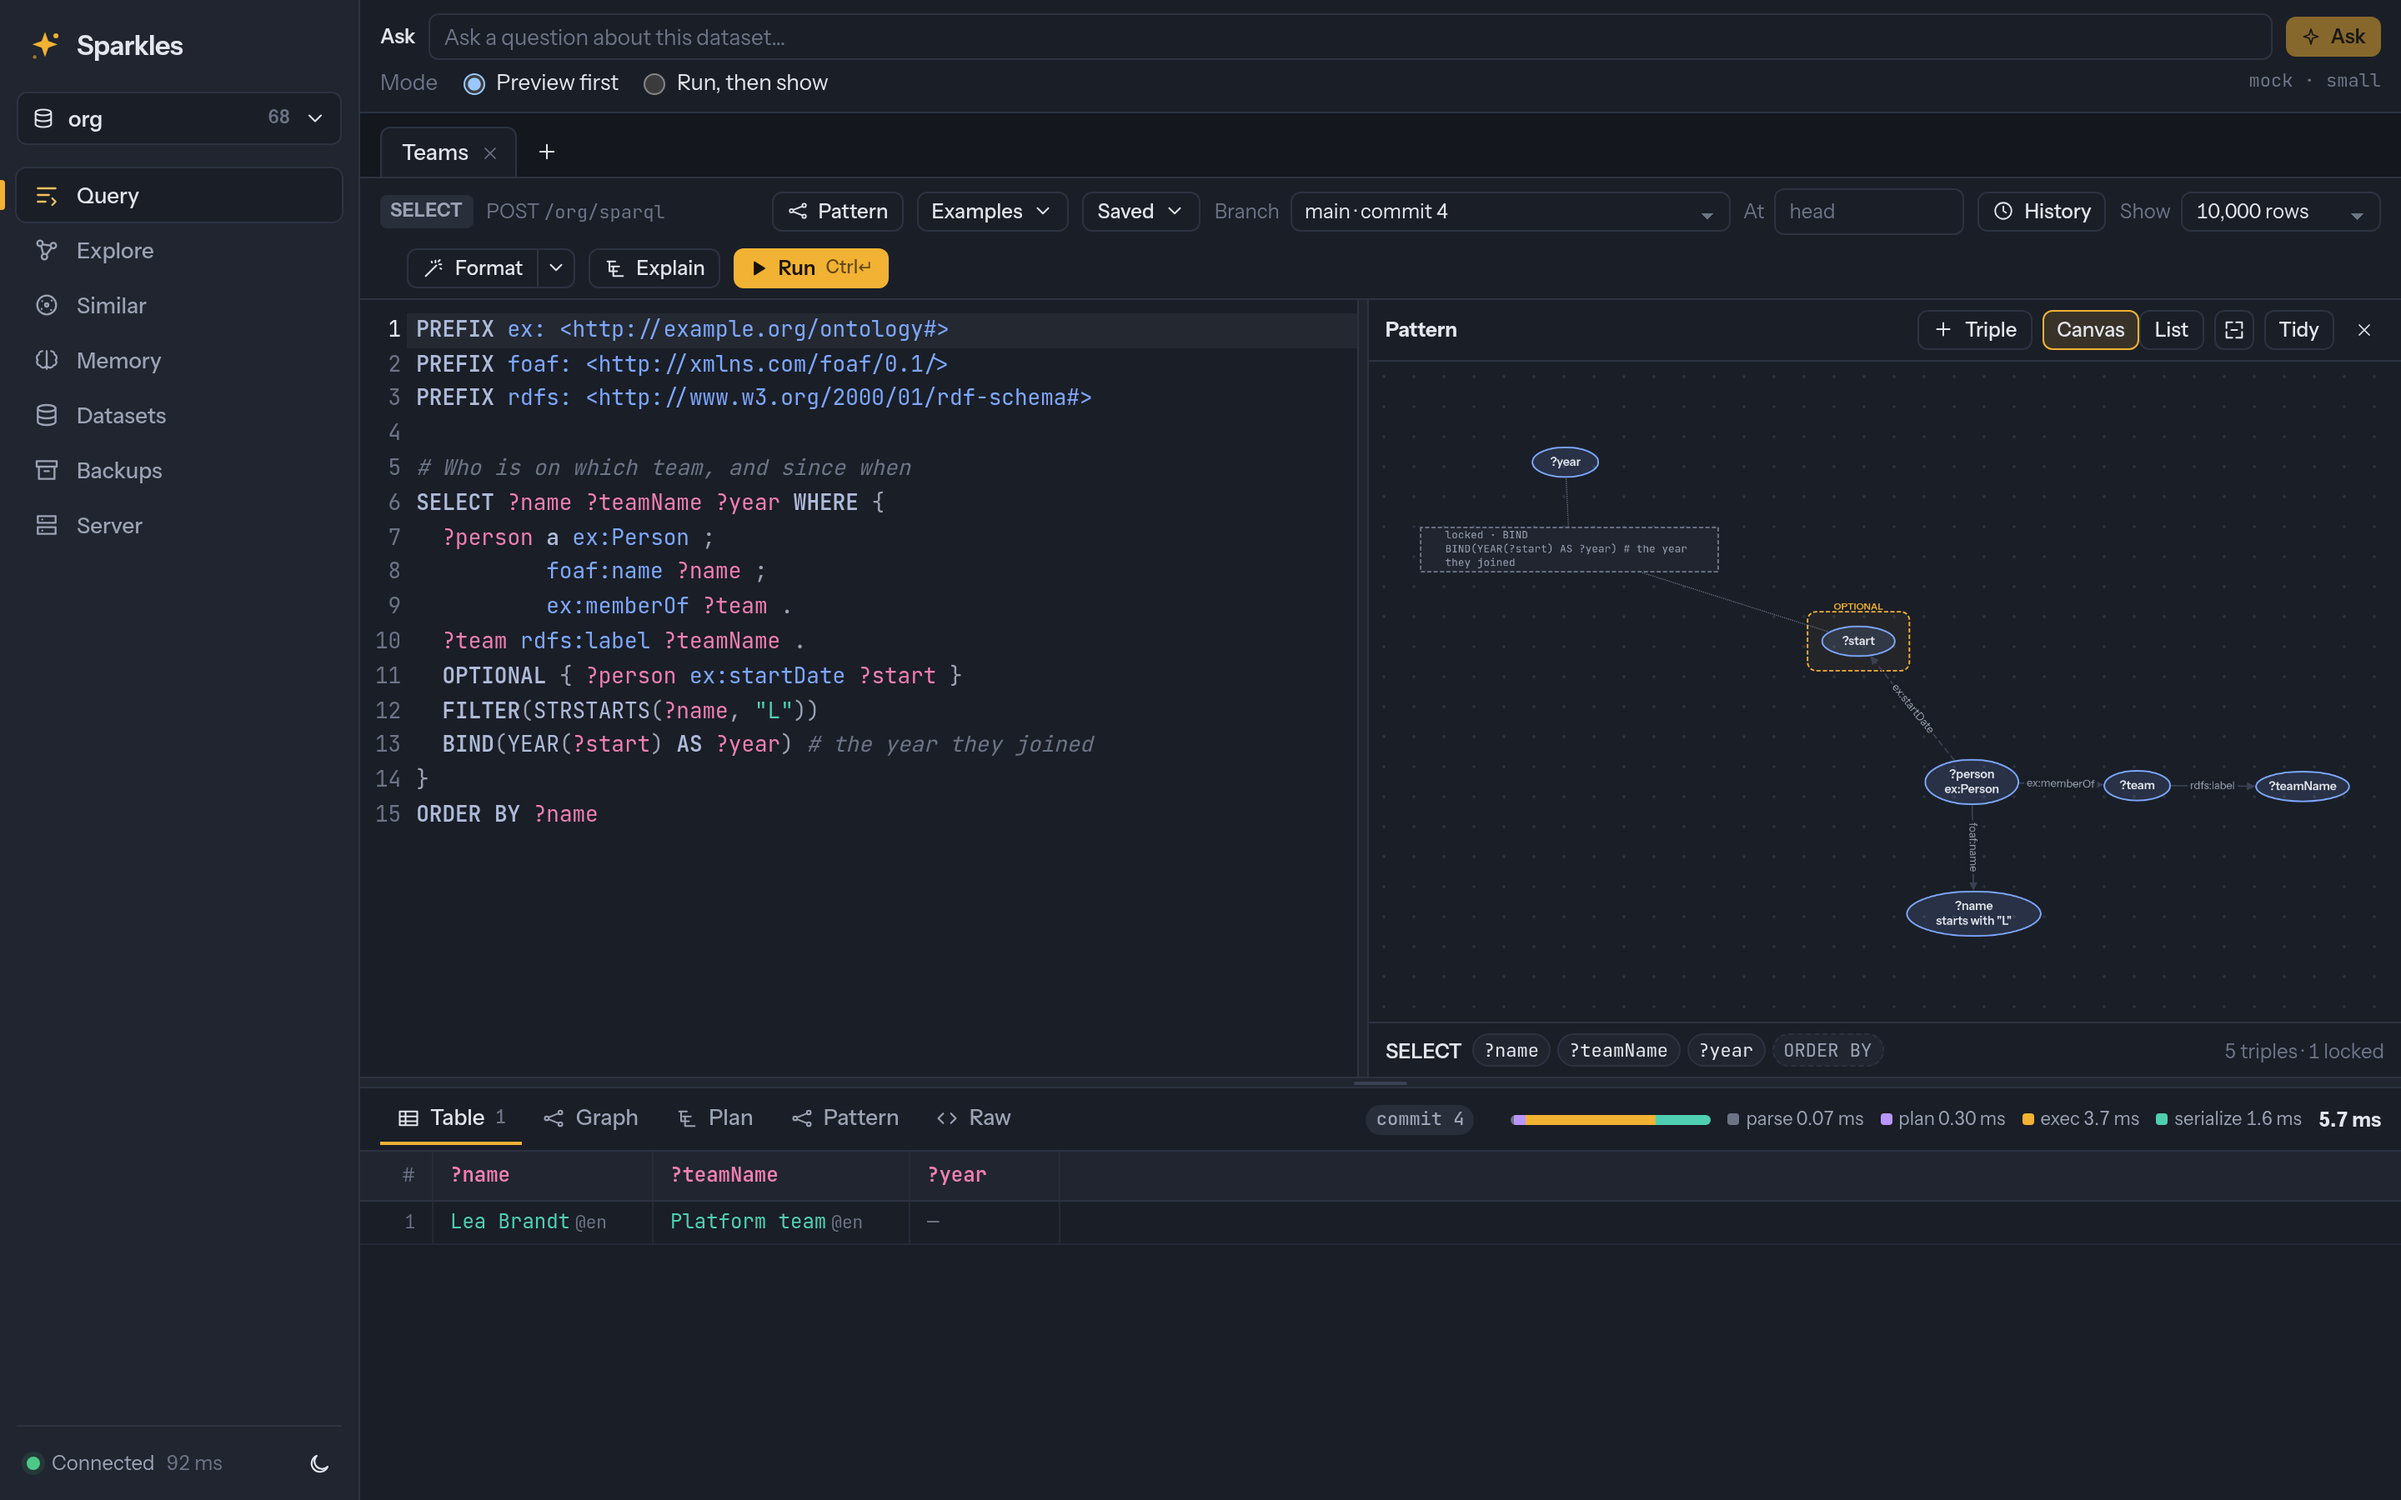
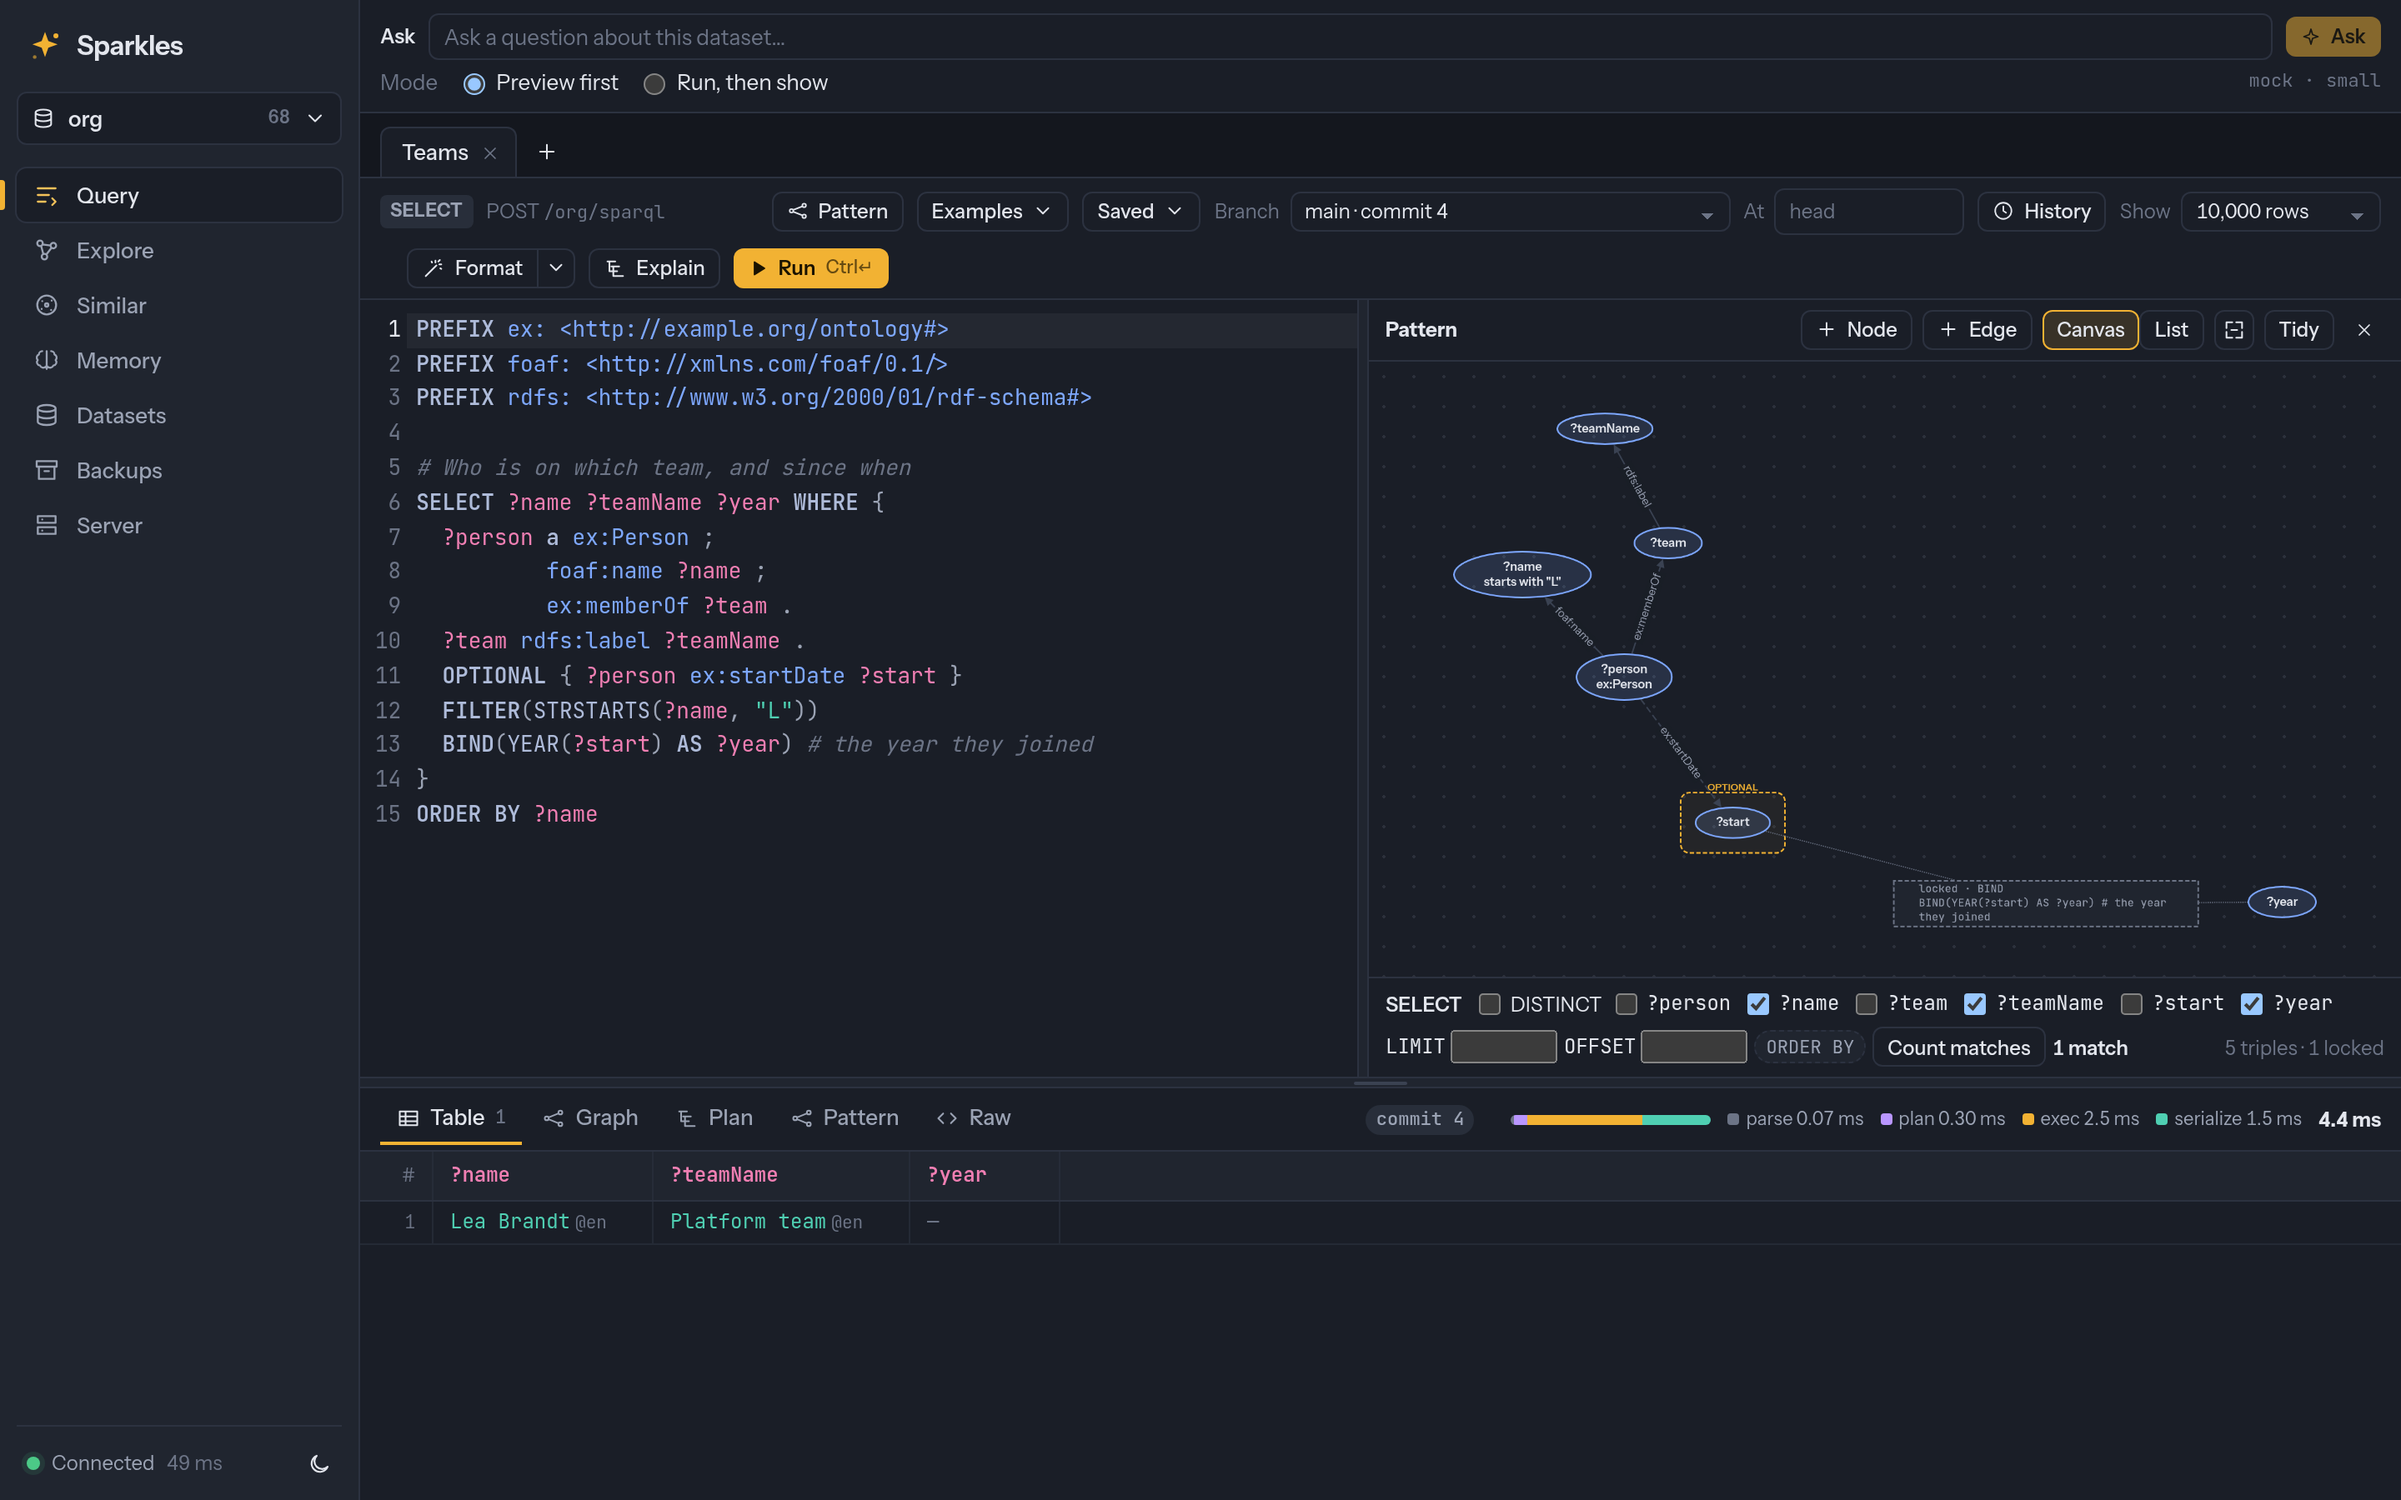
Show the canvas edits of U08 Phase 2 in the screenshots
pattern.png gets the projection strip and a count, and the new
pattern-edit.png shows + Edge with the predicate picker ranked by the
class's profile. Taking it fixed three things: the picker's list opens over
the canvas, stays open when the window loses focus and is wide enough for
prefixed names; a node with no edges is placed beside the drawing; and the
view fits when a new node lands outside it. An edge's waiting ends also stop
waiting at once, so a second edge before the redraw adds no second ?x a C.

diff --git a/ui/tests/screenshots-mock/screenshots.spec.ts b/ui/tests/screenshots-mock/screenshots.spec.ts
@@ -7,7 +7,8 @@
 
 import { test as base, expect, type APIRequestContext, type Page } from '@playwright/test';
 import { encodeHandoff } from '../../src/lib/handoff';
-import { shoot } from '../shoot';
+import { OUT, shoot } from '../shoot';
+import { join } from 'node:path';
 
 const DATASET = 'org';
 const PREFIXES = `PREFIX ex: <http://example.org/ontology#>
@@ -298,5 +299,65 @@ ORDER BY ?name`;
     .poll(async () => Number(await canvas.getAttribute('data-settled')))
     .toBeGreaterThan(0);
   await pane.getByRole('button', { name: 'Fit to view' }).click();
+  // the strip's count of the pattern's matches
+  await pane.getByRole('button', { name: 'Count matches' }).click();
+  await expect(pane.getByTestId('pattern-count')).toBeVisible();
   await shoot(page, 'pattern');
+});
+
+test('pattern-edit', async ({ page }) => {
+  // building on the canvas: + Edge from ?person, with the predicate picker ranked by the
+  // profile of ex:Person, and a waiting class node beside the drawing
+  const query = `PREFIX ex: <http://example.org/ontology#>
+PREFIX foaf: <http://xmlns.com/foaf/0.1/>
+
+SELECT ?person ?name WHERE {
+  ?person a ex:Person ;
+          foaf:name ?name .
+}`;
+  await page.addInitScript(
+    ([q]) => {
+      localStorage.setItem(
+        'sparkles.queryTabs',
+        JSON.stringify({ tabs: [{ id: 't1', title: 'People', query: q }], active: 't1' }),
+      );
+      localStorage.removeItem('sparkles.patternLayouts');
+      localStorage.setItem('sparkles.patternPane', JSON.stringify({ open: true, w: 620 }));
+    },
+    [query],
+  );
+  await page.goto(`/ui/query?ds=${DATASET}`);
+  const pane = page.getByRole('region', { name: 'Pattern', exact: true });
+  await expect(pane).toHaveAttribute('data-state', 'ok');
+  // a taller editor, so the drawing and the strip have room
+  const top = (await page.locator('.cm-editor').boundingBox())!.y;
+  const split = (await page.getByRole('separator', { name: 'Resize editor' }).boundingBox())!;
+  await page.mouse.move(split.x + split.width / 2, split.y + split.height / 2);
+  await page.mouse.down();
+  await page.mouse.move(split.x + split.width / 2, top + 470, { steps: 5 });
+  await page.mouse.up();
+  const canvas = pane.locator('.pcanvas');
+  await expect
+    .poll(async () => Number(await canvas.getAttribute('data-settled')))
+    .toBeGreaterThan(0);
+  // a waiting class node, added with N
+  await canvas.focus();
+  await page.keyboard.press('n');
+  await page.keyboard.type('ex:Team');
+  await page.keyboard.press('Enter');
+  await expect(pane.getByTestId('pattern-live')).toContainText('waiting for an edge');
+  await pane.getByRole('button', { name: 'Fit to view' }).click();
+  // E on ?person opens the predicate picker
+  await canvas.focus();
+  await expect(pane.getByTestId('pattern-focus')).toContainText('?person');
+  await page.keyboard.press('e');
+  await pane.getByLabel('To', { exact: true }).fill('?team');
+  await pane.getByLabel('Predicate', { exact: true }).focus();
+  await expect(pane.getByRole('option').first()).toContainText('used by the class');
+  // the settling of `shoot` takes screenshots of the page, which closes the list: the
+  // page is already still once the ranked options are drawn
+  await page.mouse.move(0, 0);
+  await page.evaluate(() => document.fonts.ready.then(() => undefined));
+  await page.waitForTimeout(500);
+  await page.screenshot({ path: join(OUT, 'pattern-edit.png'), animations: 'disabled' });
 });

diff --git a/ui/src/lib/components/PatternCanvas.svelte b/ui/src/lib/components/PatternCanvas.svelte
@@ -317,7 +317,8 @@
     if (wrap) wrap.dataset.settled = String(settled);
   }
 
-  /** Seeds next to the first neighbour with a position, spread around it. */
+  /** Seeds next to the first neighbour with a position, spread around it, or beside the
+   * drawing when it has none. */
   function seed(n: cytoscape.NodeSingular, i: number) {
     const placed = n
       .neighborhood('node')
@@ -326,6 +327,15 @@
     const base = placed.nonempty() ? placed[0].position() : null;
     const angle = (i * 2.4) % (2 * Math.PI);
     if (base) n.position({ x: base.x + Math.cos(angle) * 110, y: base.y + Math.sin(angle) * 110 });
+    else if (cy) {
+      // a node with no placed neighbour, such as a waiting node, goes beside the drawing
+      // instead of on top of it
+      const known = cy.nodes().filter((m) => !m.isParent() && !m.hasClass('fresh'));
+      if (known.nonempty()) {
+        const bb = known.boundingBox();
+        n.position({ x: bb.x2 + 120, y: bb.y1 + i * 70 });
+      }
+    }
   }
 
   function sync() {
@@ -407,6 +417,10 @@
     }
     // place only the new nodes: every known node is fixed where it is
     const fixed = known.nodes().map((k) => ({ nodeId: k.id(), position: { ...k.position() } }));
+    // a new node with no edges keeps its seat beside the drawing, which gravity would undo
+    const lone = fresh
+      .filter((n) => n.connectedEdges().empty() && !n.isParent())
+      .map((n) => ({ n, position: { ...n.position() } }));
     running = cy.layout({
       name: 'fcose',
       randomize: false,
@@ -420,6 +434,14 @@
       stop: () => {
         // the known nodes exactly where they were
         for (const f of fixed) cy!.getElementById(f.nodeId).position(f.position);
+        for (const l of lone) l.n.position(l.position);
+        // a new node placed outside the view brings the whole drawing into view
+        const ext = cy!.extent();
+        const outside = cy!.nodes('.fresh').some((n) => {
+          const b = n.boundingBox();
+          return b.x1 < ext.x1 || b.x2 > ext.x2 || b.y1 < ext.y1 || b.y2 > ext.y2;
+        });
+        if (outside) cy!.fit(cy!.elements(), 30);
         cy!.nodes('.fresh').removeClass('fresh');
         done();
       },

diff --git a/ui/src/lib/components/PatternPane.svelte b/ui/src/lib/components/PatternPane.svelte
@@ -622,6 +622,8 @@
         ? { kind: 'add', s, p, o, ...(declare.length ? { declare } : {}) }
         : { kind: 'add-many', triples, ...(declare.length ? { declare } : {}) };
     if (apply(e, fail)) {
+      // the ends are written now, so they wait no longer, even before the redraw
+      waiting = waiting.filter((w) => w.text !== s && w.text !== o);
       edgeOpen = false;
       edgeError = null;
       edgeS = edgeP = edgeO = '';
@@ -1302,6 +1304,9 @@
     border-color: var(--spark);
   }
   .add {
+    /* above the canvas and its panel, so a picker's list opens over the drawing */
+    position: relative;
+    z-index: 4;
     display: flex;
     gap: 6px;
     padding: 6px 10px;
@@ -1423,6 +1428,8 @@
   /* the full-screen picker's list pushes the buttons down instead of covering them */
   .add.full :global(.list) {
     position: static;
+    width: 100%;
+    max-width: none;
   }
   .add.full :global(.btn),
   .add.full :global(input) {

diff --git a/ui/src/lib/components/PatternPicker.svelte b/ui/src/lib/components/PatternPicker.svelte
@@ -91,7 +91,11 @@
       open = true;
       active = -1;
     }}
-    onblur={() => setTimeout(() => (open = false), 150)}
+    onblur={() =>
+      setTimeout(() => {
+        // a window that loses focus blurs the field too, which keeps the list open
+        if (document.activeElement !== input) open = false;
+      }, 150)}
     onkeydown={keydown}
     {...autofocus ? { autofocus: true } : {}}
   />
@@ -144,7 +148,9 @@
     position: absolute;
     z-index: 5;
     left: 0;
-    right: 0;
+    min-width: min(320px, 90vw);
+    width: max-content;
+    max-width: min(480px, 90vw);
     top: calc(100% + 2px);
     max-height: 240px;
     overflow: auto;
@@ -172,10 +178,12 @@
   }
   .count {
     margin-left: auto;
+    flex: none;
     color: var(--text-2);
     font-variant-numeric: tabular-nums;
   }
   .hint {
+    flex: none;
     color: var(--text-3);
     font-size: 11px;
   }

diff --git a/README.md b/README.md
@@ -300,12 +300,12 @@ agent memory, the map view and a merge preview.
     <td>A graph compared between two commits</td>
   </tr>
   <tr>
-    <td><img src="docs/images/pattern.png" alt="The query editor with the Pattern pane beside it, drawing the query's variables as nodes joined by its triple patterns, an optional part in a dashed hull, a filter as a chip under its variable and a BIND as a locked block"></td>
-    <td></td>
+    <td><img src="docs/images/pattern.png" alt="The query editor with the Pattern pane beside it, drawing the query's variables as nodes joined by its triple patterns, an optional part in a dashed hull, a filter as a chip under its variable and a BIND as a locked block, with the projection checkboxes and the count of matches under the canvas"></td>
+    <td><img src="docs/images/pattern-edit.png" alt="The Pattern pane adding an edge from ?person, with the predicate picker listing the predicates that instances of ex:Person use, with their counts"></td>
   </tr>
   <tr>
     <td>The pattern of a query, drawn beside its text</td>
-    <td></td>
+    <td>A query built on the canvas from the schema</td>
   </tr>
 </table>
 
